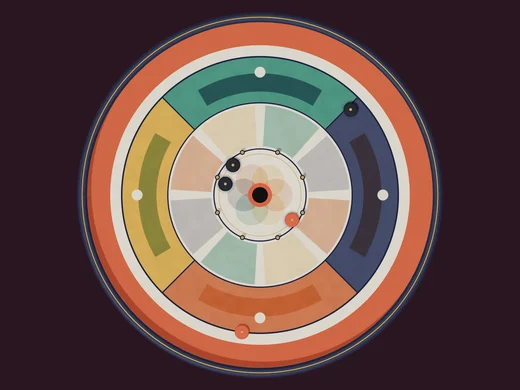
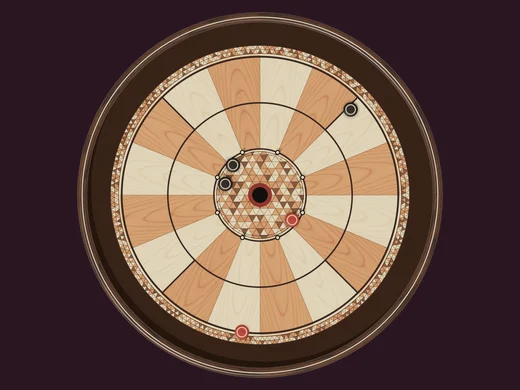
Crokinole: walnut pieces never touch along an edge; marquetry is the default, boards ordered marquetry > classic > modern > mid-century > winter > neon
Claude-Session: https://claude.ai/code/session_019p8B6UqeAdsK6vNEgpDiqd

diff --git a/atlas/models/crokinole.js b/atlas/models/crokinole.js
@@ -4,7 +4,7 @@
               fibres, a few pores), lacquered; the 5 / 10 / 15 lines and the quadrant lines in black, a red ring round the 20 hole;
               eight brass pegs with black rubber sleeves on the 15 line; a green felt ditch and a round walnut rail. Discs of
               red- and black-stained maple with turned rings.
-   · 'marq'    marquetry (寄木細工): sixteen radial wedges of maple and cherry between the 15 and 5 lines, a field of small
+   · 'marq'    (the default) marquetry (寄木細工): sixteen radial wedges of maple and cherry between the 15 and 5 lines, a field of small
               triangles of maple, cherry and walnut inside the 15 and in a band outside the 5; walnut lines, maple pegs, a walnut
               rail with a maple stringer, a brown suede ditch. Discs of cherry and ebony with a maple inlay ring.
    · 'winter'  Canadian winter: a pale ice surface with frost and hairline cracks, faint snowflakes, a red maple leaf under
@@ -14,7 +14,7 @@
               an atomic-age motif in each quarter (a Sputnik, boomerangs, atomic orbits, an Eames dot cluster) and sparkles in
               cream, mustard, burnt orange, teal and olive; a dark teak rail with a brass ring, a mustard felt ditch. Discs of
               burnt orange and charcoal with atomic orbits.
-   · 'modern'  (the default) modern art: warm paper printed with colour fields (terracotta, saffron, teal, ink) in the four quarters, a ring
+   · 'modern'  modern art: warm paper printed with colour fields (terracotta, saffron, teal, ink) in the four quarters, a ring
               of arcs and a flower of circles round the hole, risograph grain; ink lines; a matte ink-blue rail with a brass ring,
               a terracotta ditch. Matte coral and ink discs with a brass pip.
    · 'neon'      the night board of carrom carried over: black lacquer with the lines glowing in a flowing rainbow (gaming RGB),
@@ -37,7 +37,7 @@
   const RB = 13 * IN, R5 = 12 * IN, R10 = 8 * IN, R15 = 4 * IN, RH = 1.375 * IN / 2, RD = 1.25 * IN / 2, RP = .55;
   const DW = 2 * IN, RR = RB + DW, RO = RR + 2.2;   // the ditch (2 in), the rail (2.2 cm thick)
   const TOP = .26, DY = TOP - 1.3 * K, RAIL_H = TOP + 2.4 * K, HD = .9 * K, PEG_H = 1.6 * K;
-  const LOOKS = ['modern', 'classic', 'marq', 'mcm', 'winter', 'neon'];
+  const LOOKS = ['marq', 'classic', 'modern', 'mcm', 'winter', 'neon'];
   const lin = c => new (T().Color)(c).convertSRGBToLinear();
   function phys(o) {
     const TT = T(), p = Object.assign({}, o);
@@ -47,7 +47,7 @@
     return new TT[p.clearcoat !== undefined ? 'MeshPhysicalMaterial' : 'MeshStandardMaterial'](p);
   }
   const mats = {}, mat = (k, f) => mats[k] || (mats[k] = f());
-  const lookNow = () => X.BOARDS && X.BOARDS.crokinole ? X.BOARDS.crokinole.get() : 'modern';
+  const lookNow = () => X.BOARDS && X.BOARDS.crokinole ? X.BOARDS.crokinole.get() : 'marq';
 
   /* ---------- gaming RGB (the neon board): the glow's hue flows with the clock (as carrom's night board) ---------- */
   const RGB = { uT: { value: 0 } };
@@ -98,13 +98,13 @@
       // the ring — a triangle lattice bent round the board (two rows between the stringers), each piece its own wood, tone
       // and grain direction, glue seams between them
       const W3 = [WOOD.maple, WOOD.cherry, WOOD.walnut], O = { cx: 0, by: -40, asp: .08, sp: .45, wp: 1.4, ring: .5, fib: .4, drift: .25 }, SEAM = [40, 24, 14];
-      const woodOf = h => W3[h < .42 ? 0 : h < .76 ? 1 : 2];
+      const woodOf = (h, up) => up && h < .34 ? W3[2] : W3[hash(h * 37, 5, 1) < .52 ? 0 : 1];   // walnut only on upward pieces: two never share an edge
       const grain = (x, y, dir, h, w) => { const c = Math.cos(dir), sn = Math.sin(dir), t = woodT(N, x * c + y * sn, -x * sn + y * c, Object.assign({}, O, { off: h * 40 })); return mix(w[0], w[1], .1 + t * .5 + (hash(h * 91, 3, 7) - .5) * .12); };
       const B0 = R5 + .7, ROWS = 2, BW = (RB - B0) / ROWS, NB = Math.round(2 * Math.PI * (B0 + RB) / 2 / (BW / .866));
       return (x, y) => {
         const r = Math.hypot(x, y);
         if (r < R15 - .35) {
-          const T = triTile(x, y, 1.7), col = grain(x, y, T.dir, T.h, woodOf(T.h));
+          const T = triTile(x, y, 1.7), col = grain(x, y, T.dir, T.h, woodOf(T.h, T.up));
           return T.e < .035 ? mix(col, SEAM, .55) : col;
         }
         if (r > B0) {
@@ -112,7 +112,7 @@
           const a = (th + Math.PI) / (2 * Math.PI) * NB + row * .5 - t * .5, ia = Math.floor(a), fa = a - ia, up = fa + t < 1 ? 1 : 0;
           const e = up ? Math.min(fa, t, 1 - fa - t) : Math.min(1 - fa, 1 - t, fa + t - 1);
           const h = hash(ia, row, up), dir = th + Math.PI / 2 + (Math.floor(hash(row, ia, up + 3) * 3)) * Math.PI / 3;
-          const col = grain(x, y, dir, h, woodOf(h));
+          const col = grain(x, y, dir, h, woodOf(h, up));
           return e < .045 ? mix(col, SEAM, .6) : e < .08 ? mix(col, SEAM, .2) : col;
         }
         const n = 16, th = Math.atan2(y, x), k = Math.floor((th + Math.PI) / (2 * Math.PI / n)), thc = -Math.PI + (k + .5) * 2 * Math.PI / n;

diff --git a/atlas/tables3d.js b/atlas/tables3d.js
@@ -170,8 +170,8 @@
     konane: { list: ['papamu', 'quilt'], get: () => ls.get('atlas-konane-look') === 'quilt' ? 'quilt' : 'papamu', set: k => ls.set('atlas-konane-look', k) },
     // carrom (3D only): 'atlas-carrom-look' ('neon' the default | 'modern' | 'classic' | 'rajasthan' | 'bauhaus' | 'tycoon')
     carrom: { list: ['neon', 'modern', 'classic', 'rajasthan', 'bauhaus', 'tycoon'], get: () => { const v = ls.get('atlas-carrom-look'); return ['modern', 'classic', 'rajasthan', 'bauhaus', 'tycoon'].includes(v) ? v : 'neon'; }, set: k => ls.set('atlas-carrom-look', k) },
-    // crokinole (3D only): 'atlas-crokinole-look' ('modern' the default | 'classic' | 'marq' | 'mcm' | 'winter' | 'neon')
-    crokinole: { list: ['modern', 'classic', 'marq', 'mcm', 'winter', 'neon'], get: () => { const v = ls.get('atlas-crokinole-look'); return ['classic', 'marq', 'mcm', 'winter', 'neon'].includes(v) ? v : 'modern'; }, set: k => ls.set('atlas-crokinole-look', k) },
+    // crokinole (3D only): 'atlas-crokinole-look' ('marq' the default | 'classic' | 'modern' | 'mcm' | 'winter' | 'neon')
+    crokinole: { list: ['marq', 'classic', 'modern', 'mcm', 'winter', 'neon'], get: () => { const v = ls.get('atlas-crokinole-look'); return ['classic', 'modern', 'mcm', 'winter', 'neon'].includes(v) ? v : 'marq'; }, set: k => ls.set('atlas-crokinole-look', k) },
     // ludo (atlas/models/ludo.js, atlas/skin/ludo.js): 'atlas-ludo-look' ('classic' the default | 'marble' | 'street' | 'peg' | 'mondrian' | 'cutout'); pachisi keeps its cloth
     ludo: { list: ['classic', 'peg', 'street', 'mondrian', 'cutout', 'marble'], get: () => { const v = ls.get('atlas-ludo-look'); return ['marble', 'street', 'peg', 'mondrian', 'cutout'].includes(v) ? v : 'classic'; }, set: k => ls.set('atlas-ludo-look', k) },
   };
@@ -179,7 +179,7 @@
   X.boardName = (k, lang) => { const o = N3[k]; return o ? o[lang] || o.en : k; };
   // the full games' 「3D盤」 tiles: the board alone, from straight above, no room (atlas/tools/boardicon.html, 2026-11-09)
   X.boardIcon = (id, k) => new URL('img/boardic-' + id + '-' + k + '.webp?v=1', ME).href;
-  X.boardThumb = (id, k) => new URL('img/board-' + id + '-' + k + '.webp?v=' + (id === 'senet' ? 3 : id === 'carrom' ? 5 : id === 'crokinole' ? 4 : id === 'konane' ? 2 : id === 'ludo' ? 2 : 1), ME).href;
+  X.boardThumb = (id, k) => new URL('img/board-' + id + '-' + k + '.webp?v=' + (id === 'senet' ? 3 : id === 'carrom' ? 5 : id === 'crokinole' ? 5 : id === 'konane' ? 2 : id === 'ludo' ? 2 : 1), ME).href;
   // choose a board for a game: the shared key is written and the showcase board (if it is that game's) is rebuilt at once
   X.setBoard = (id, k) => { const B = BOARDS[id]; if (!B || !B.list.includes(k)) return; B.set(k); try { dispatchEvent(new CustomEvent('atlas-board', { detail: { id, look: k } })); } catch (e) {} };
   PLACES.ui.board = { ja: '盤', en: 'Board', zh: '棋盘', ko: '판', es: 'Tablero', fr: 'Plateau', pt: 'Tabuleiro', de: 'Brett', hi: 'बोर्ड', ar: 'اللوحة', ru: 'Доска', 'zh-TW': '棋盤', id: 'Papan', tr: 'Tahta' };

diff --git a/index.html b/index.html
@@ -861,7 +861,7 @@ const GAMES = [
   { id:'senet',      href:'./senet/',         thumb:'images/senet.webp?v=2',       icon:'images/icons/senet.svg?v=2',       cat:'hist', also:['race'], kind:'BOARD GAME', key:'sn',   isNew:true,  tags:['classic','ai','online','rated','lessons','puzzles','variants','mobile'], facts:{ ai:20, players:'1–2' } },
   { id:'ludo',       href:'./ludo/',          thumb:'images/ludo.webp?v=2',          icon:'images/icons/ludo.svg',            cat:'race', also:['hist'], kind:'BOARD GAME', key:'ld',   isNew:true,          tags:['classic','ai','rated','lessons','variants','mobile'], facts:{ ai:20, lessons:10, players:'1–4' } },
   { id:'carrom',     href:'./atlas/#games/carrom', thumb:'images/carrom.webp?v=4',  icon:'images/icons/carrom.svg',          cat:'action', kind:'3D BOARD GAME', key:'cr',   isNew:true, tags:['classic','ai','mobile'], facts:{ ai:20, players:'1–2' } },
-  { id:'crokinole',  href:'./atlas/#games/crokinole', thumb:'images/crokinole.webp?v=3', icon:'images/icons/crokinole.svg',  cat:'action', kind:'3D BOARD GAME', key:'ck',   isNew:true, beta:1,  tags:['classic','ai','mobile'], facts:{ ai:20, players:'1–2' } },
+  { id:'crokinole',  href:'./atlas/#games/crokinole', thumb:'images/crokinole.webp?v=4', icon:'images/icons/crokinole.svg',  cat:'action', kind:'3D BOARD GAME', key:'ck',   isNew:true, beta:1,  tags:['classic','ai','mobile'], facts:{ ai:20, players:'1–2' } },
   { id:'reversi-v3', href:'./reversi_v3.html',thumb:'images/reversi_v3.webp',  icon:'images/icons/reversi-v3.svg?v=3',  cat:'old',     kind:'BOARD GAME', key:'rv3',  tags:['mobile'], facts:{ players:'1–2' } },
 ];
 const GX_CATS = ['all', 'board', 'puzzle', 'card', 'chess', 'line', 'race', 'hist', 'action', 'old'];   // 'classic' and 'card' are tag chips (filter on g.tags)   // same categories as the portal (atlas) + previous versions

diff --git a/dots/index.html b/dots/index.html
@@ -2297,7 +2297,7 @@ document.querySelector('#rsResume').onclick = () => { document.querySelector('#r
   const f = document.createElement('link'); f.rel = 'stylesheet'; f.href = 'https://fonts.googleapis.com/css2?family=RocknRoll+One&family=Zen+Maru+Gothic:wght@500;700;900&family=Fredoka:wght@600;700&family=Kalam:wght@400;700&family=Zen+Kurenaido&family=Nanum+Pen+Script&family=Long+Cang&family=Aref+Ruqaa:wght@700&display=swap'; document.head.appendChild(f);   // (Kalam … Aref Ruqaa: the handwritten box initials and tally on the notebook page)
   const load = src => new Promise((res, rej) => { const s = document.createElement('script'); s.src = src; s.onload = res; s.onerror = rej; document.body.appendChild(s); });
   if (window.AtlasLoading) { AtlasLoading.show(); setTimeout(() => AtlasLoading.hide(), 12000); }   // safety net
-  load('https://cdnjs.cloudflare.com/ajax/libs/three.js/r128/three.min.js').then(() => load('../atlas/table3d.js?v=132')).then(() => load('../atlas/tables3d.js?v=47')).then(() => load('../atlas/skin/common.js?v=51npc')).then(() => load('../atlas/models/dots.js?v=3l14')).then(() => load('../atlas/skin/dots.js?v=7l14'))
+  load('https://cdnjs.cloudflare.com/ajax/libs/three.js/r128/three.min.js').then(() => load('../atlas/table3d.js?v=132')).then(() => load('../atlas/tables3d.js?v=48')).then(() => load('../atlas/skin/common.js?v=51npc')).then(() => load('../atlas/models/dots.js?v=3l14')).then(() => load('../atlas/skin/dots.js?v=7l14'))
     .catch(() => { document.documentElement.classList.remove('atlas-skin'); if (window.AtlasLoading) AtlasLoading.hide(); });
 })();
 </script>

diff --git a/ur/index.html b/ur/index.html
@@ -1027,7 +1027,7 @@ html:not([lang=ja]):not([lang=zh]):not([lang="zh-TW"]):not([lang=ko]) .result-bi
   const f = document.createElement('link'); f.rel = 'stylesheet'; f.href = 'https://fonts.googleapis.com/css2?family=RocknRoll+One&family=Zen+Maru+Gothic:wght@500;700;900&family=Fredoka:wght@600;700&display=swap'; document.head.appendChild(f);
   const load = src => new Promise((res, rej) => { const s = document.createElement('script'); s.src = src; s.onload = res; s.onerror = rej; document.body.appendChild(s); });
   if (window.AtlasLoading) { AtlasLoading.show(); setTimeout(() => AtlasLoading.hide(), 12000); }   // safety net
-  load('https://cdnjs.cloudflare.com/ajax/libs/three.js/r128/three.min.js').then(() => load('../atlas/table3d.js?v=132')).then(() => load('../atlas/tables3d.js?v=47')).then(() => load('../atlas/skin/common.js?v=51npc')).then(() => load('../atlas/models/ur-dice.js?v=2l14')).then(() => load('../atlas/models/ur.js?v=3l14')).then(() => load('../atlas/skin/ur.js?v=14l14'))
+  load('https://cdnjs.cloudflare.com/ajax/libs/three.js/r128/three.min.js').then(() => load('../atlas/table3d.js?v=132')).then(() => load('../atlas/tables3d.js?v=48')).then(() => load('../atlas/skin/common.js?v=51npc')).then(() => load('../atlas/models/ur-dice.js?v=2l14')).then(() => load('../atlas/models/ur.js?v=3l14')).then(() => load('../atlas/skin/ur.js?v=14l14'))
     .catch(() => { const u = new URL(location.href); u.searchParams.delete('skin'); location.replace(u.href); });   // (the 3D files are missing: the plain 2D page)
 })();
 </script>

diff --git a/connect4/index.html b/connect4/index.html
@@ -3376,7 +3376,7 @@ document.addEventListener('keydown', e => {
   const f = document.createElement('link'); f.rel = 'stylesheet'; f.href = 'https://fonts.googleapis.com/css2?family=RocknRoll+One&family=Zen+Maru+Gothic:wght@500;700;900&family=Fredoka:wght@600;700&display=swap'; document.head.appendChild(f);
   const load = src => new Promise((res, rej) => { const s = document.createElement('script'); s.src = src; s.onload = res; s.onerror = rej; document.body.appendChild(s); });
   if (window.AtlasLoading) { AtlasLoading.show(); setTimeout(() => AtlasLoading.hide(), 12000); }   // safety net
-  load('https://cdnjs.cloudflare.com/ajax/libs/three.js/r128/three.min.js').then(() => load('../atlas/table3d.js?v=132')).then(() => load('../atlas/tables3d.js?v=47')).then(() => load('../atlas/skin/common.js?v=51npc')).then(() => load('../atlas/models/connect4.js?v=5l14')).then(() => load('../atlas/games/connect4-tiles.js?v=1l14')).then(() => load('../atlas/skin/connect4.js?v=6l14-aim'))
+  load('https://cdnjs.cloudflare.com/ajax/libs/three.js/r128/three.min.js').then(() => load('../atlas/table3d.js?v=132')).then(() => load('../atlas/tables3d.js?v=48')).then(() => load('../atlas/skin/common.js?v=51npc')).then(() => load('../atlas/models/connect4.js?v=5l14')).then(() => load('../atlas/games/connect4-tiles.js?v=1l14')).then(() => load('../atlas/skin/connect4.js?v=6l14-aim'))
     .catch(() => { document.documentElement.classList.remove('atlas-skin'); if (window.AtlasLoading) AtlasLoading.hide(); });
 })();
 </script>

diff --git a/morris/index.html b/morris/index.html
@@ -3866,7 +3866,7 @@ window.addEventListener('resize', () => renderFx());
   const f = document.createElement('link'); f.rel = 'stylesheet'; f.href = 'https://fonts.googleapis.com/css2?family=RocknRoll+One&family=Zen+Maru+Gothic:wght@500;700;900&family=Fredoka:wght@600;700&display=swap'; document.head.appendChild(f);
   const load = src => new Promise((res, rej) => { const s = document.createElement('script'); s.src = src; s.onload = res; s.onerror = rej; document.body.appendChild(s); });
   if (window.AtlasLoading) { AtlasLoading.show(); setTimeout(() => AtlasLoading.hide(), 12000); }   // safety net
-  load('https://cdnjs.cloudflare.com/ajax/libs/three.js/r128/three.min.js').then(() => load('../atlas/table3d.js?v=132')).then(() => load('../atlas/tables3d.js?v=47')).then(() => load('../atlas/skin/common.js?v=51npc')).then(() => load('../atlas/models/morris.js?v=6l14')).then(() => load('../atlas/games/morris-pieces.js?v=2l14')).then(() => load('../atlas/skin/morris.js?v=6l14'))
+  load('https://cdnjs.cloudflare.com/ajax/libs/three.js/r128/three.min.js').then(() => load('../atlas/table3d.js?v=132')).then(() => load('../atlas/tables3d.js?v=48')).then(() => load('../atlas/skin/common.js?v=51npc')).then(() => load('../atlas/models/morris.js?v=6l14')).then(() => load('../atlas/games/morris-pieces.js?v=2l14')).then(() => load('../atlas/skin/morris.js?v=6l14'))
     .catch(() => { document.documentElement.classList.remove('atlas-skin'); if (window.AtlasLoading) AtlasLoading.hide(); });
 })();
 </script>

diff --git a/senet/index.html b/senet/index.html
@@ -1028,7 +1028,7 @@ html:not([lang=ja]):not([lang=zh]):not([lang=zh-TW]):not([lang=ko]) .result-big{
   const f = document.createElement('link'); f.rel = 'stylesheet'; f.href = 'https://fonts.googleapis.com/css2?family=RocknRoll+One&family=Zen+Maru+Gothic:wght@500;700;900&family=Fredoka:wght@600;700&display=swap'; document.head.appendChild(f);
   const load = src => new Promise((res, rej) => { const s = document.createElement('script'); s.src = src; s.onload = res; s.onerror = rej; document.body.appendChild(s); });
   if (window.AtlasLoading) { AtlasLoading.show(); setTimeout(() => AtlasLoading.hide(), 12000); }   // safety net
-  load('https://cdnjs.cloudflare.com/ajax/libs/three.js/r128/three.min.js').then(() => load('../atlas/table3d.js?v=132')).then(() => load('../atlas/tables3d.js?v=47')).then(() => load('../atlas/skin/common.js?v=51npc')).then(() => load('../atlas/models/senet.js?v=10l14')).then(() => load('../atlas/skin/senet.js?v=10l14'))
+  load('https://cdnjs.cloudflare.com/ajax/libs/three.js/r128/three.min.js').then(() => load('../atlas/table3d.js?v=132')).then(() => load('../atlas/tables3d.js?v=48')).then(() => load('../atlas/skin/common.js?v=51npc')).then(() => load('../atlas/models/senet.js?v=10l14')).then(() => load('../atlas/skin/senet.js?v=10l14'))
     .catch(() => { const u = new URL(location.href); u.searchParams.delete('skin'); location.replace(u.href); });   // (the 3D files are missing: the plain 2D page)
 })();
 </script>

diff --git a/fanorona/index.html b/fanorona/index.html
@@ -1685,7 +1685,7 @@ body.lt-on .reserve .onb.on{border-color:var(--accent);box-shadow:0 0 0 1px var(
   const f = document.createElement('link'); f.rel = 'stylesheet'; f.href = 'https://fonts.googleapis.com/css2?family=RocknRoll+One&family=Zen+Maru+Gothic:wght@500;700;900&family=Fredoka:wght@600;700&display=swap'; document.head.appendChild(f);
   const load = src => new Promise((res, rej) => { const s = document.createElement('script'); s.src = src; s.onload = res; s.onerror = rej; document.body.appendChild(s); });
   if (window.AtlasLoading) { AtlasLoading.show(); setTimeout(() => AtlasLoading.hide(), 12000); }   // safety net
-  load('https://cdnjs.cloudflare.com/ajax/libs/three.js/r128/three.min.js').then(() => load('../atlas/table3d.js?v=132')).then(() => load('../atlas/tables3d.js?v=47')).then(() => load('../atlas/skin/common.js?v=51npc')).then(() => load('../atlas/models/fanorona.js?v=3l14')).then(() => load('../atlas/skin/fanorona.js?v=6l14'))
+  load('https://cdnjs.cloudflare.com/ajax/libs/three.js/r128/three.min.js').then(() => load('../atlas/table3d.js?v=132')).then(() => load('../atlas/tables3d.js?v=48')).then(() => load('../atlas/skin/common.js?v=51npc')).then(() => load('../atlas/models/fanorona.js?v=3l14')).then(() => load('../atlas/skin/fanorona.js?v=6l14'))
     .catch(() => { document.documentElement.classList.remove('atlas-skin'); if (window.AtlasLoading) AtlasLoading.hide(); });
 })();
 </script>

diff --git a/mancala/index.html b/mancala/index.html
@@ -1584,7 +1584,7 @@ html[data-sk=ocean] .seed{box-shadow:0 calc(var(--u) * .025) calc(var(--u) * .04
   const f = document.createElement('link'); f.rel = 'stylesheet'; f.href = 'https://fonts.googleapis.com/css2?family=RocknRoll+One&family=Zen+Maru+Gothic:wght@500;700;900&family=Fredoka:wght@600;700&display=swap'; document.head.appendChild(f);
   const load = src => new Promise((res, rej) => { const s = document.createElement('script'); s.src = src; s.onload = res; s.onerror = rej; document.body.appendChild(s); });
   if (window.AtlasLoading) { AtlasLoading.show(); setTimeout(() => AtlasLoading.hide(), 12000); }   // safety net
-  load('https://cdnjs.cloudflare.com/ajax/libs/three.js/r128/three.min.js').then(() => load('../atlas/table3d.js?v=132')).then(() => load('../atlas/tables3d.js?v=47')).then(() => load('../atlas/skin/common.js?v=51npc')).then(() => load('../atlas/models/mancala.js?v=4l14')).then(() => load('../atlas/skin/mancala.js?v=10l14'))
+  load('https://cdnjs.cloudflare.com/ajax/libs/three.js/r128/three.min.js').then(() => load('../atlas/table3d.js?v=132')).then(() => load('../atlas/tables3d.js?v=48')).then(() => load('../atlas/skin/common.js?v=51npc')).then(() => load('../atlas/models/mancala.js?v=4l14')).then(() => load('../atlas/skin/mancala.js?v=10l14'))
     .catch(() => { document.documentElement.classList.remove('atlas-skin'); if (window.AtlasLoading) AtlasLoading.hide(); });
 })();
 </script>

diff --git a/gomoku/index.html b/gomoku/index.html
@@ -1441,7 +1441,7 @@ body.skin-ink .st.b{background:radial-gradient(circle at 34% 28%,#8a8f98 0%,#3c4
   const f = document.createElement('link'); f.rel = 'stylesheet'; f.href = 'https://fonts.googleapis.com/css2?family=RocknRoll+One&family=Zen+Maru+Gothic:wght@500;700;900&family=Fredoka:wght@600;700&display=swap'; document.head.appendChild(f);
   const load = src => new Promise((res, rej) => { const s = document.createElement('script'); s.src = src; s.onload = res; s.onerror = rej; document.body.appendChild(s); });
   if (window.AtlasLoading) { AtlasLoading.show(); setTimeout(() => AtlasLoading.hide(), 12000); }   // safety net
-  load('https://cdnjs.cloudflare.com/ajax/libs/three.js/r128/three.min.js').then(() => load('../atlas/table3d.js?v=132')).then(() => load('../atlas/tables3d.js?v=47')).then(() => load('../atlas/skin/common.js?v=51npc')).then(() => load('../atlas/models/goban.js?v=11l14')).then(() => load('../atlas/skin/gomoku.js?v=4l14'))
+  load('https://cdnjs.cloudflare.com/ajax/libs/three.js/r128/three.min.js').then(() => load('../atlas/table3d.js?v=132')).then(() => load('../atlas/tables3d.js?v=48')).then(() => load('../atlas/skin/common.js?v=51npc')).then(() => load('../atlas/models/goban.js?v=11l14')).then(() => load('../atlas/skin/gomoku.js?v=4l14'))
     .catch(() => { document.documentElement.classList.remove('atlas-skin'); if (window.AtlasLoading) AtlasLoading.hide(); });
 })();
 </script>

diff --git a/shogi/index.html b/shogi/index.html
@@ -5599,7 +5599,7 @@ if (window.Online && Online.available) setInterval(() => { if (dock.on) chatStar
   const f = document.createElement('link'); f.rel = 'stylesheet'; f.href = 'https://fonts.googleapis.com/css2?family=RocknRoll+One&family=Zen+Maru+Gothic:wght@500;700;900&family=Fredoka:wght@600;700&display=swap'; document.head.appendChild(f);
   const load = src => new Promise((res, rej) => { const s = document.createElement('script'); s.src = src; s.onload = res; s.onerror = rej; document.body.appendChild(s); });
   if (window.AtlasLoading) { AtlasLoading.show(); setTimeout(() => AtlasLoading.hide(), 12000); }   // safety net
-  load('https://cdnjs.cloudflare.com/ajax/libs/three.js/r128/three.min.js').then(() => load('../atlas/table3d.js?v=132')).then(() => load('../atlas/tables3d.js?v=47')).then(() => load('../atlas/skin/common.js?v=51npc')).then(() => load('../atlas/models/shogi.js?v=22l14')).then(() => load('../atlas/skin/shogi.js?v=13l14'))
+  load('https://cdnjs.cloudflare.com/ajax/libs/three.js/r128/three.min.js').then(() => load('../atlas/table3d.js?v=132')).then(() => load('../atlas/tables3d.js?v=48')).then(() => load('../atlas/skin/common.js?v=51npc')).then(() => load('../atlas/models/shogi.js?v=22l14')).then(() => load('../atlas/skin/shogi.js?v=13l14'))
     .catch(() => { document.documentElement.classList.remove('atlas-skin'); if (window.AtlasLoading) AtlasLoading.hide(); });
 })();
 </script>
